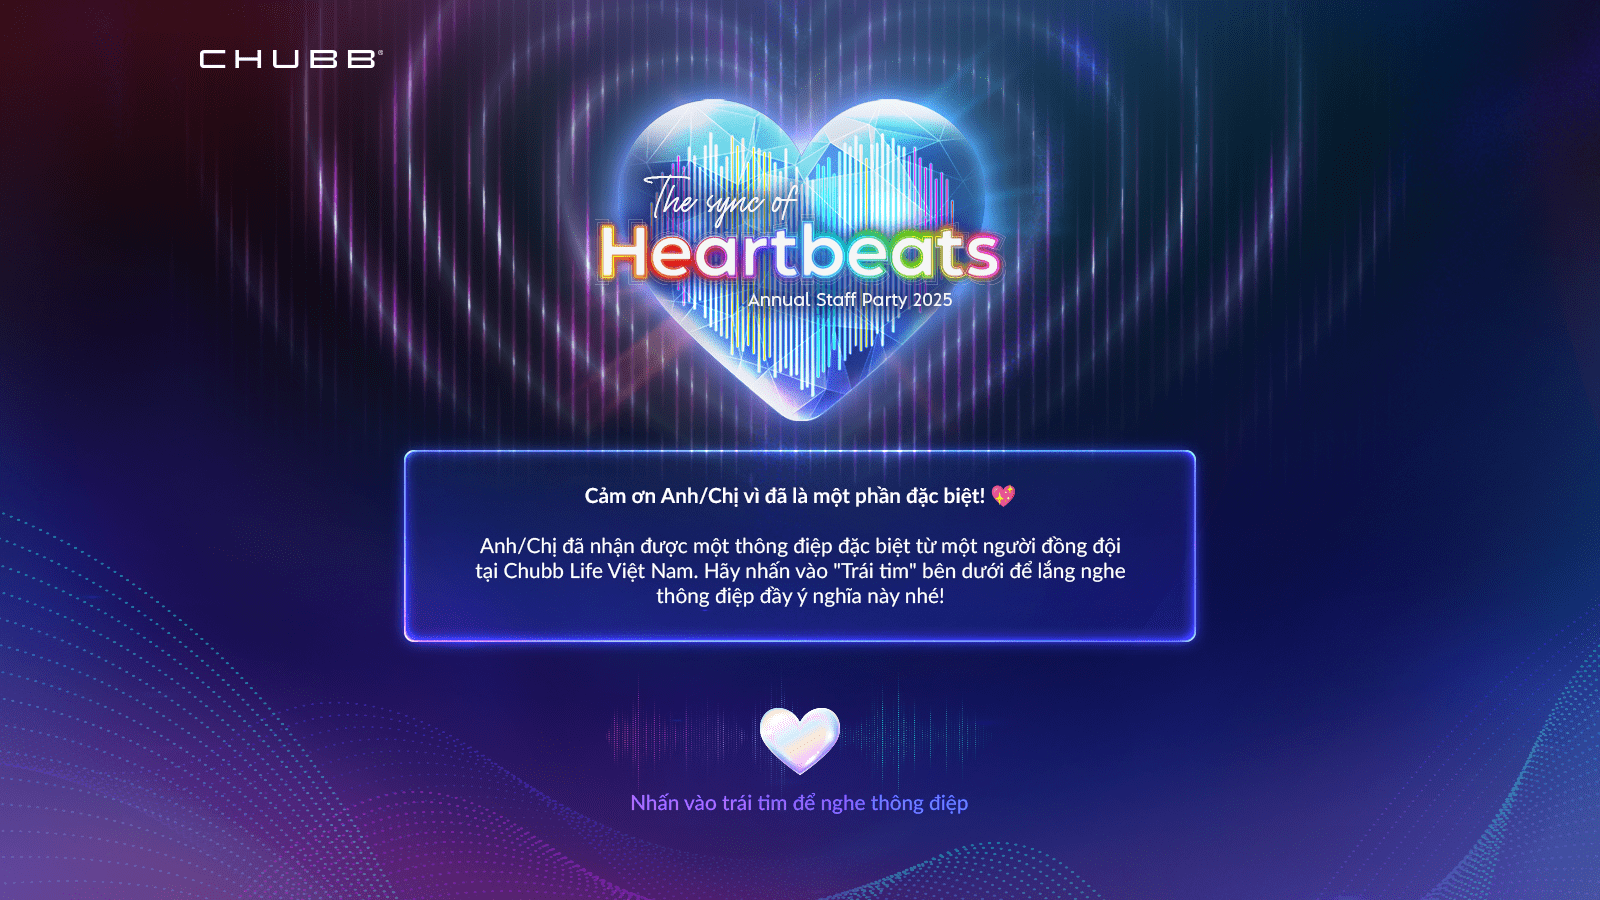
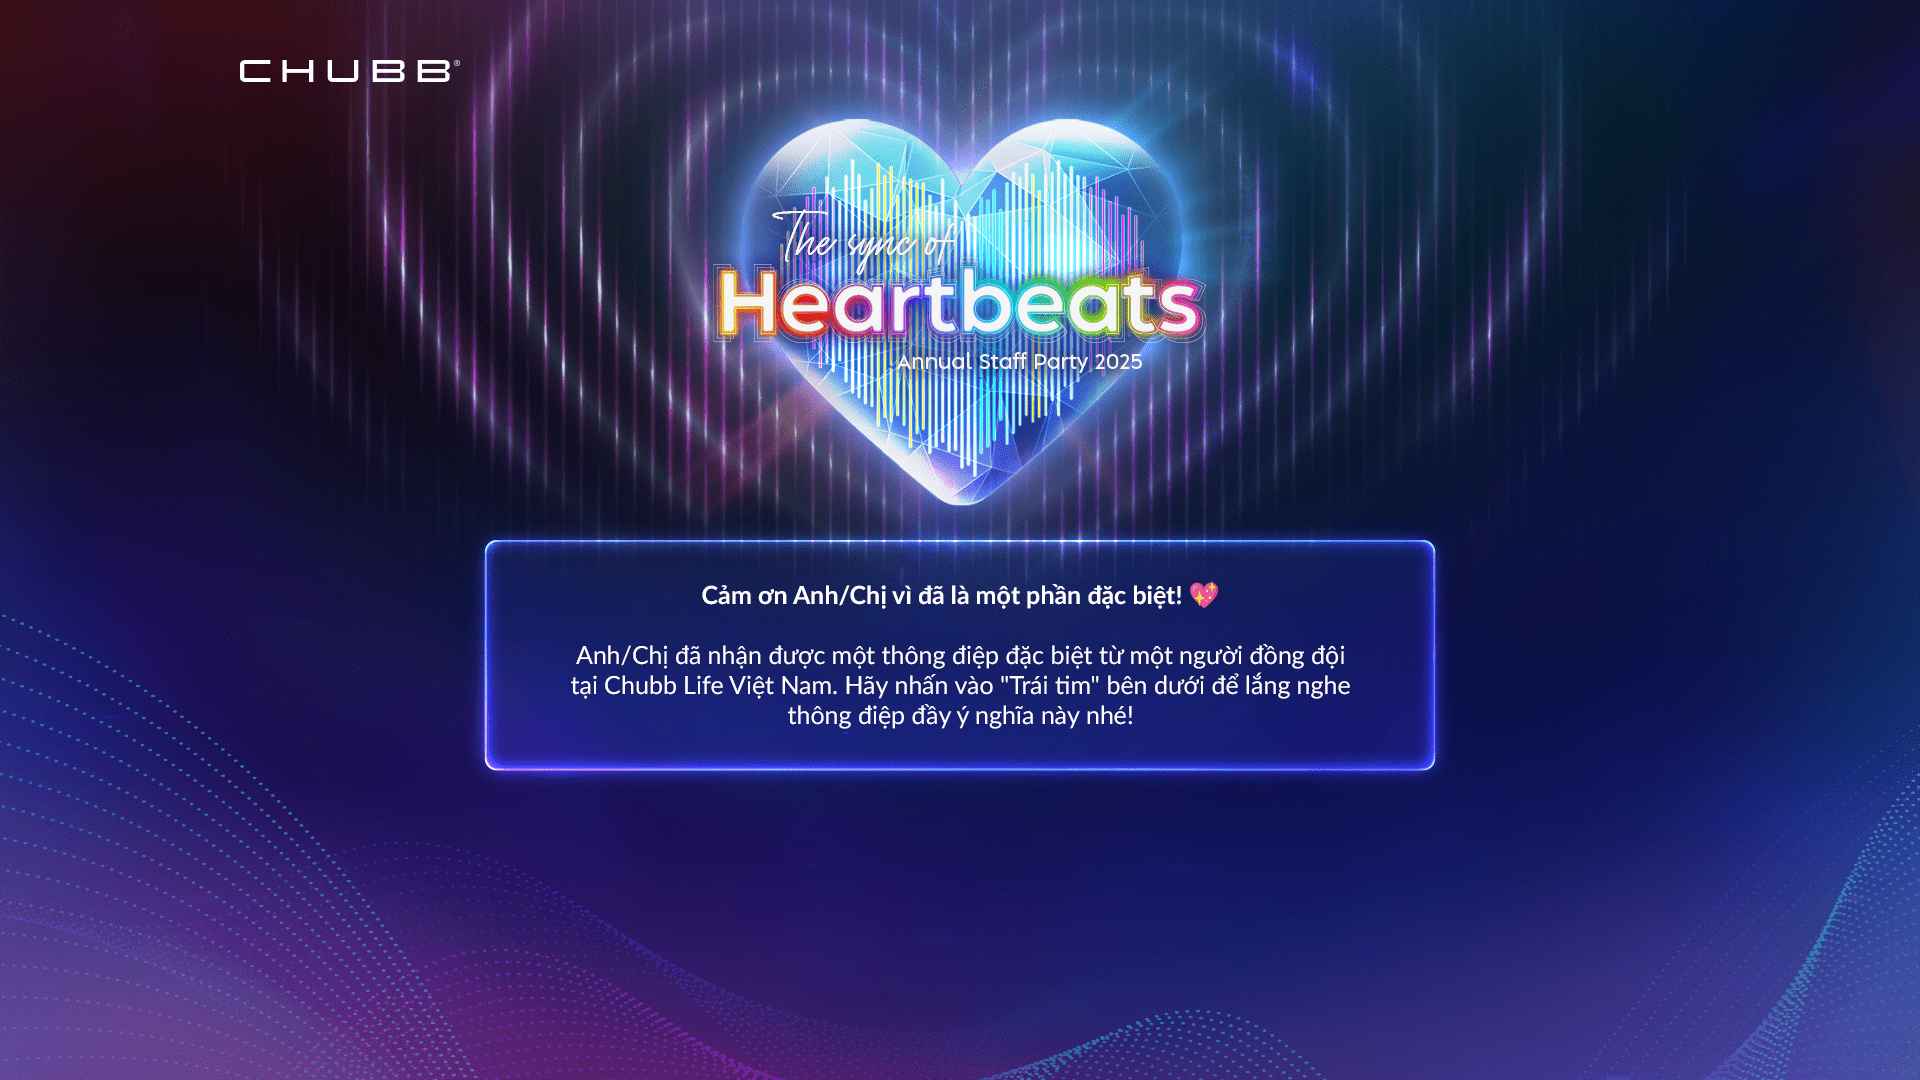
update

diff --git a/src/components/Spinner.tsx b/src/components/Spinner.tsx
@@ -1,0 +1,173 @@
+const Spinner = () => {
+  return (
+    <div
+      style={{
+        display: 'flex',
+        justifyContent: 'center',
+        alignItems: 'center',
+        height: 64,
+        width: 64,
+      }}
+    >
+      <svg
+        xmlns="http://www.w3.org/2000/svg"
+        viewBox="0 0 100 100"
+        preserveAspectRatio="xMidYMid"
+        width="200"
+        height="200"
+        style={{ shapeRendering: 'auto', display: 'block', background: 'transparent' }}
+        xmlns:xlink="http://www.w3.org/1999/xlink"
+      >
+        <g>
+          <g transform="rotate(0 50 50)">
+            <rect fill="#6e27c5" height="12" width="6" ry="6" rx="3" y="24" x="47">
+              <animate
+                repeatCount="indefinite"
+                begin="-0.9166666666666666s"
+                dur="1s"
+                keyTimes="0;1"
+                values="1;0"
+                attributeName="opacity"
+              ></animate>
+            </rect>
+          </g>
+          <g transform="rotate(30 50 50)">
+            <rect fill="#6e27c5" height="12" width="6" ry="6" rx="3" y="24" x="47">
+              <animate
+                repeatCount="indefinite"
+                begin="-0.8333333333333334s"
+                dur="1s"
+                keyTimes="0;1"
+                values="1;0"
+                attributeName="opacity"
+              ></animate>
+            </rect>
+          </g>
+          <g transform="rotate(60 50 50)">
+            <rect fill="#6e27c5" height="12" width="6" ry="6" rx="3" y="24" x="47">
+              <animate
+                repeatCount="indefinite"
+                begin="-0.75s"
+                dur="1s"
+                keyTimes="0;1"
+                values="1;0"
+                attributeName="opacity"
+              ></animate>
+            </rect>
+          </g>
+          <g transform="rotate(90 50 50)">
+            <rect fill="#6e27c5" height="12" width="6" ry="6" rx="3" y="24" x="47">
+              <animate
+                repeatCount="indefinite"
+                begin="-0.6666666666666666s"
+                dur="1s"
+                keyTimes="0;1"
+                values="1;0"
+                attributeName="opacity"
+              ></animate>
+            </rect>
+          </g>
+          <g transform="rotate(120 50 50)">
+            <rect fill="#6e27c5" height="12" width="6" ry="6" rx="3" y="24" x="47">
+              <animate
+                repeatCount="indefinite"
+                begin="-0.5833333333333334s"
+                dur="1s"
+                keyTimes="0;1"
+                values="1;0"
+                attributeName="opacity"
+              ></animate>
+            </rect>
+          </g>
+          <g transform="rotate(150 50 50)">
+            <rect fill="#6e27c5" height="12" width="6" ry="6" rx="3" y="24" x="47">
+              <animate
+                repeatCount="indefinite"
+                begin="-0.5s"
+                dur="1s"
+                keyTimes="0;1"
+                values="1;0"
+                attributeName="opacity"
+              ></animate>
+            </rect>
+          </g>
+          <g transform="rotate(180 50 50)">
+            <rect fill="#6e27c5" height="12" width="6" ry="6" rx="3" y="24" x="47">
+              <animate
+                repeatCount="indefinite"
+                begin="-0.4166666666666667s"
+                dur="1s"
+                keyTimes="0;1"
+                values="1;0"
+                attributeName="opacity"
+              ></animate>
+            </rect>
+          </g>
+          <g transform="rotate(210 50 50)">
+            <rect fill="#6e27c5" height="12" width="6" ry="6" rx="3" y="24" x="47">
+              <animate
+                repeatCount="indefinite"
+                begin="-0.3333333333333333s"
+                dur="1s"
+                keyTimes="0;1"
+                values="1;0"
+                attributeName="opacity"
+              ></animate>
+            </rect>
+          </g>
+          <g transform="rotate(240 50 50)">
+            <rect fill="#6e27c5" height="12" width="6" ry="6" rx="3" y="24" x="47">
+              <animate
+                repeatCount="indefinite"
+                begin="-0.25s"
+                dur="1s"
+                keyTimes="0;1"
+                values="1;0"
+                attributeName="opacity"
+              ></animate>
+            </rect>
+          </g>
+          <g transform="rotate(270 50 50)">
+            <rect fill="#6e27c5" height="12" width="6" ry="6" rx="3" y="24" x="47">
+              <animate
+                repeatCount="indefinite"
+                begin="-0.16666666666666666s"
+                dur="1s"
+                keyTimes="0;1"
+                values="1;0"
+                attributeName="opacity"
+              ></animate>
+            </rect>
+          </g>
+          <g transform="rotate(300 50 50)">
+            <rect fill="#6e27c5" height="12" width="6" ry="6" rx="3" y="24" x="47">
+              <animate
+                repeatCount="indefinite"
+                begin="-0.08333333333333333s"
+                dur="1s"
+                keyTimes="0;1"
+                values="1;0"
+                attributeName="opacity"
+              ></animate>
+            </rect>
+          </g>
+          <g transform="rotate(330 50 50)">
+            <rect fill="#6e27c5" height="12" width="6" ry="6" rx="3" y="24" x="47">
+              <animate
+                repeatCount="indefinite"
+                begin="0s"
+                dur="1s"
+                keyTimes="0;1"
+                values="1;0"
+                attributeName="opacity"
+              ></animate>
+            </rect>
+          </g>
+          <g></g>
+        </g>
+      </svg>
+    </div>
+  );
+};
+
+export default Spinner;

diff --git a/src/components/AudioPlayer.tsx b/src/components/AudioPlayer.tsx
@@ -1,0 +1,78 @@
+import { useRef, useState } from 'react';
+import AudioHeartIcon from '../assets/audio-heart-icon-min.png';
+import AudioBackground from '../assets/audio-background-min.png';
+import './AudioPlayer.css';
+import Spinner from './Spinner';
+
+const AudioPlayer = ({ fileUrl, isMobile }: { fileUrl: string; isMobile: boolean }) => {
+  const audioRef = useRef<HTMLAudioElement>(null);
+  const [isLoading, setIsLoading] = useState(false);
+  const [isLoaded, setIsLoaded] = useState(false);
+  const [isPlayed, setIsPlayed] = useState(false);
+
+  const handlePlay = () => {
+    if (isPlayed) {
+      audioRef.current?.pause();
+      setIsPlayed(false);
+      return;
+    }
+    if (audioRef.current) {
+      audioRef.current.play();
+      setIsPlayed(true);
+    }
+  };
+
+  const handleLoadStart = () => {
+    setIsLoading(true);
+  };
+
+  const handleCanPlayThrough = () => {
+    setIsLoading(false);
+    setIsLoaded(true);
+  };
+
+  return (
+    <div
+      style={{
+        position: 'absolute',
+        bottom: 50,
+        left: 0,
+        right: 0,
+        padding: 8,
+        zIndex: 1,
+        display: 'flex',
+        justifyContent: 'center',
+        alignItems: 'center',
+      }}
+    >
+      <div
+        style={{
+          background: `url(${AudioBackground}) `,
+          width: isMobile ? 279 : 463,
+          height: isMobile ? 232 : 187,
+          backgroundRepeat: 'no-repeat',
+          backgroundPosition: 'center',
+          backgroundSize: isMobile ? 'contain' : 'cover',
+        }}
+      >
+        <audio
+          ref={audioRef}
+          style={{ display: 'none' }}
+          onLoadStart={handleLoadStart}
+          onCanPlayThrough={handleCanPlayThrough}
+        >
+          <source src={fileUrl} type="audio/mp3" />
+          Your browser does not support the audio element.
+        </audio>
+        <div className="audio-player-container">
+          <div onClick={handlePlay} className="audio-heart-icon">
+            {isLoading && <Spinner />}
+            {isLoaded && <img src={AudioHeartIcon} alt="Audio Heart Icon" />}
+          </div>
+        </div>
+      </div>
+    </div>
+  );
+};
+
+export default AudioPlayer;

diff --git a/src/App.tsx b/src/App.tsx
@@ -4,25 +4,55 @@ import preEventMobile from './assets/pre-event-mobile.png';
 import onEventDesktop from './assets/on-event-desktop.png';
 import preEventDesktop from './assets/pre-event-desktop.png';
 import './App.css';
-import GoogleDrivePlayer from './components/GoogleDrivePlayer';
+import AudioPlayer from './components/AudioPlayer';
+import useSWR from 'swr';
+
+const fetcher = (...args: [RequestInfo, RequestInit?]) => fetch(...args).then(res => res.json());
 
 function App() {
   const isOnEvent = true;
+  const urlObj = new URL(window.location.href);
+  const path = urlObj.pathname;
+  const id = path.substring(1);
+
+  const {
+    data: infoData,
+    error: infoError,
+    isLoading,
+  } = useSWR(`https://gateway.chubbannualstaffparty2025.com/generate/${id}/info`, fetcher);
+
+  if (infoError)
+    return (
+      <div>
+        <progress value={null} />
+        <p>Có lỗi xảy ra, vui lòng thử lại</p>
+      </div>
+    );
+  if (!infoData || isLoading) return <progress value={null} />;
+
+  const getBackground = () => {
+    if (isOnEvent) {
+      return isMobile ? onEventMobile : onEventDesktop;
+    } else {
+      return isMobile ? preEventMobile : preEventDesktop;
+    }
+  };
+
+  const fileUrl = infoData?.messageLink
+    ? infoData.messageLink
+    : infoData?.filename && infoData?.fileId && infoData?.mediaId
+    ? `https://gateway.chubbannualstaffparty2025.com/generate/${infoData?.mediaId}`
+    : '';
 
   return (
-    <div className="posterWrapper">
-      {isOnEvent ? (
-        isMobile ? (
-          <img src={onEventMobile} alt="On event mobile" />
-        ) : (
-          <img src={onEventDesktop} alt="On event desktop" />
-        )
-      ) : isMobile ? (
-        <img src={preEventMobile} alt="Pre event mobile" />
-      ) : (
-        <img src={preEventDesktop} alt="Pre event desktop" />
-      )}
-      <GoogleDrivePlayer />
+    <div
+      className="posterWrapper"
+      style={{
+        background: `url(${getBackground()}) no-repeat center center/cover`,
+        position: 'relative',
+      }}
+    >
+      {fileUrl && <AudioPlayer isMobile={isMobile} fileUrl={fileUrl} />}
     </div>
   );
 }

diff --git a/src/components/AudioPlayer.css b/src/components/AudioPlayer.css
@@ -1,0 +1,33 @@
+.audio-player-container {
+  display: flex;
+  justify-content: center;
+  align-items: center;
+  height: 100%;
+}
+.audio-heart-icon {
+  width: 96px;
+  height: 80px;
+  animation: breathing 2s infinite;
+
+  @media screen and (max-width: 768px) {
+    width: 64px;
+    height: 54px;
+  }
+}
+
+.audio-heart-icon img {
+  width: 100%;
+  height: 100%;
+  cursor: pointer;
+}
+@keyframes breathing {
+  0% {
+    transform: scale(1);
+  }
+  50% {
+    transform: scale(1.1);
+  }
+  100% {
+    transform: scale(1);
+  }
+}

diff --git a/src/App.css b/src/App.css
@@ -6,16 +6,11 @@
 }
 
 .posterWrapper {
-  width: 100%;
+  width: 100vw;
   height: 100vh;
-}
-
-.posterWrapper img {
-  width: 100%;
-  height: 100%;
-  object-fit: cover;
-  will-change: filter;
-  transition: filter 300ms;
+  background-size: cover;
+  background-repeat: no-repeat;
+  background-position: center;
 }
 
 .logo {
